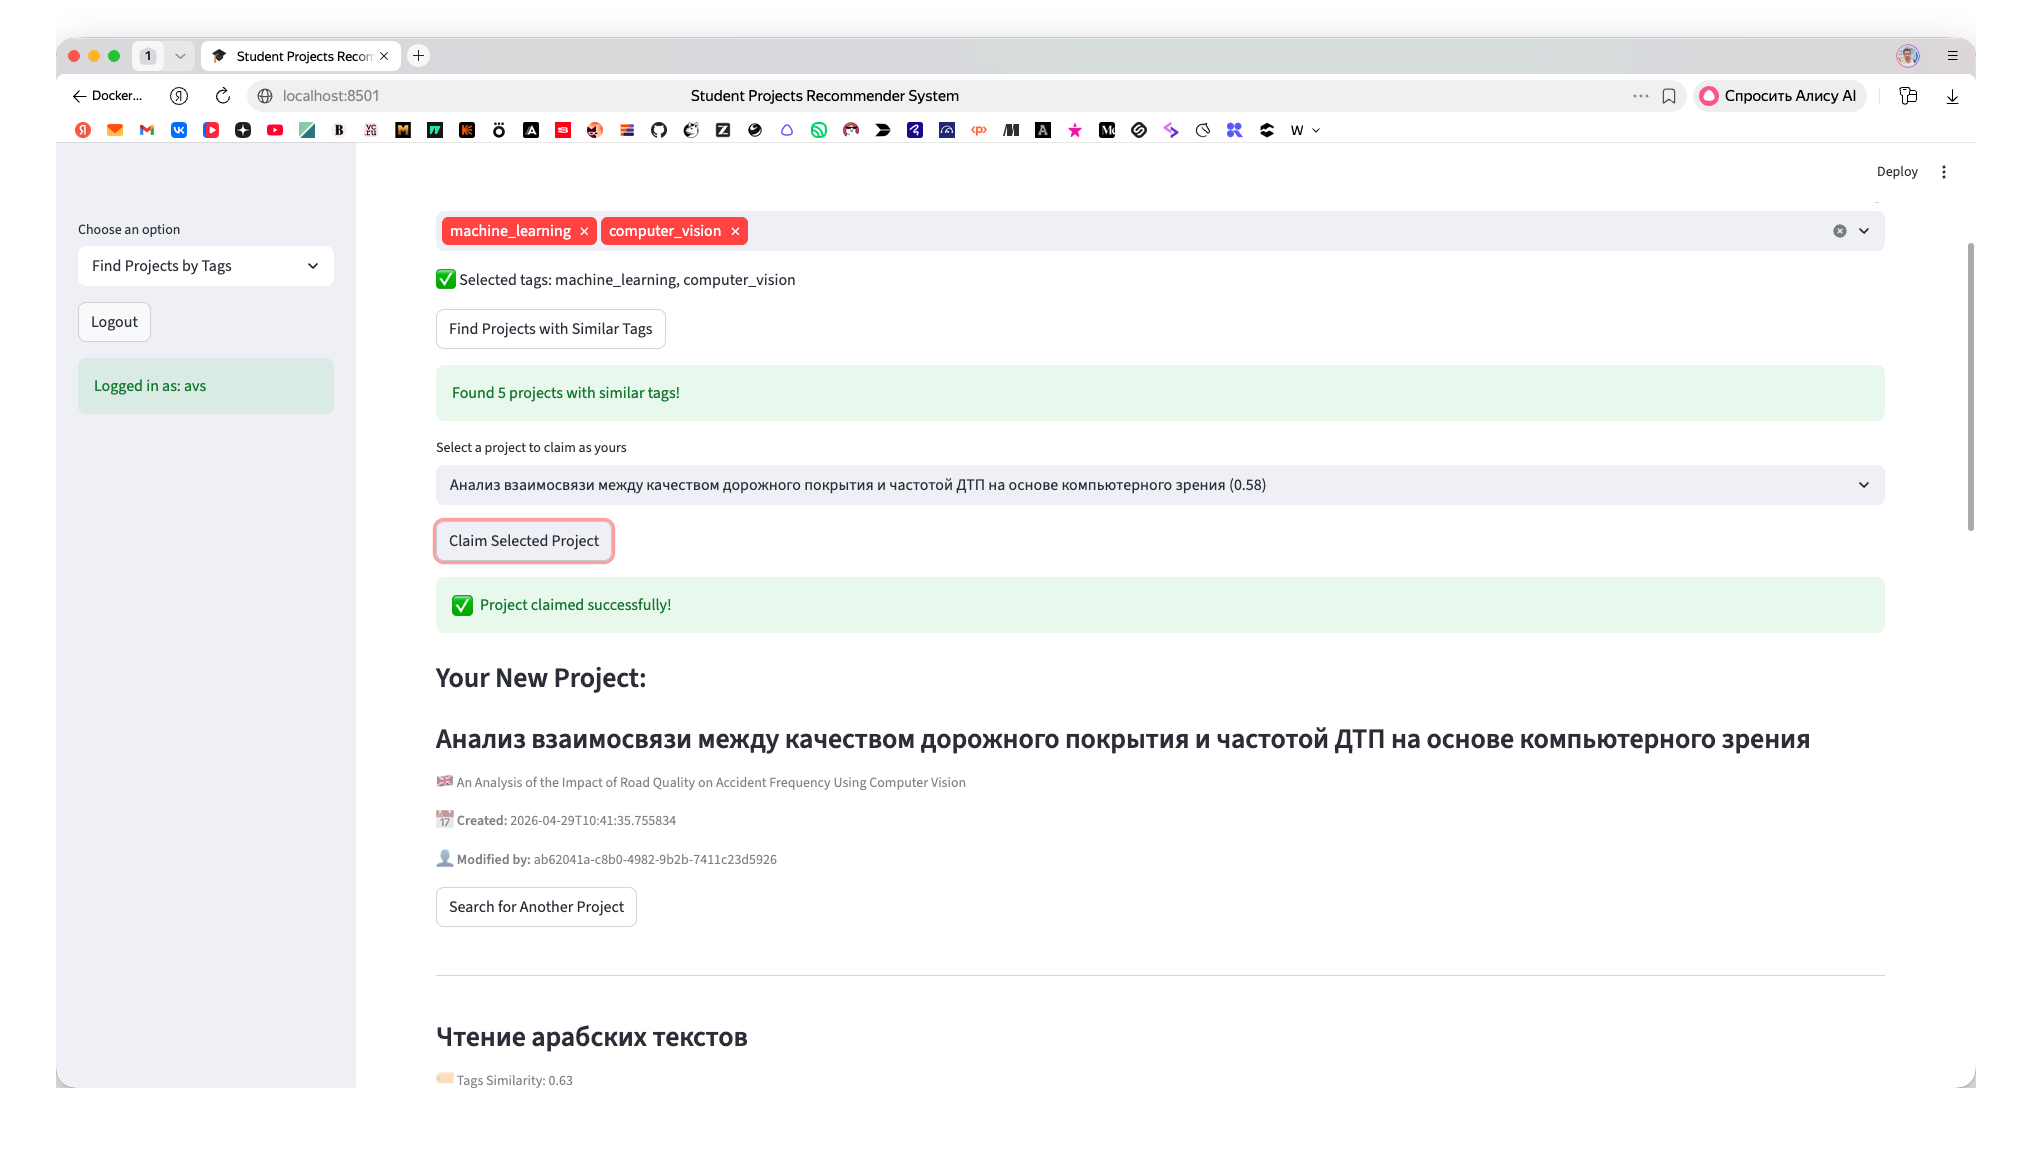
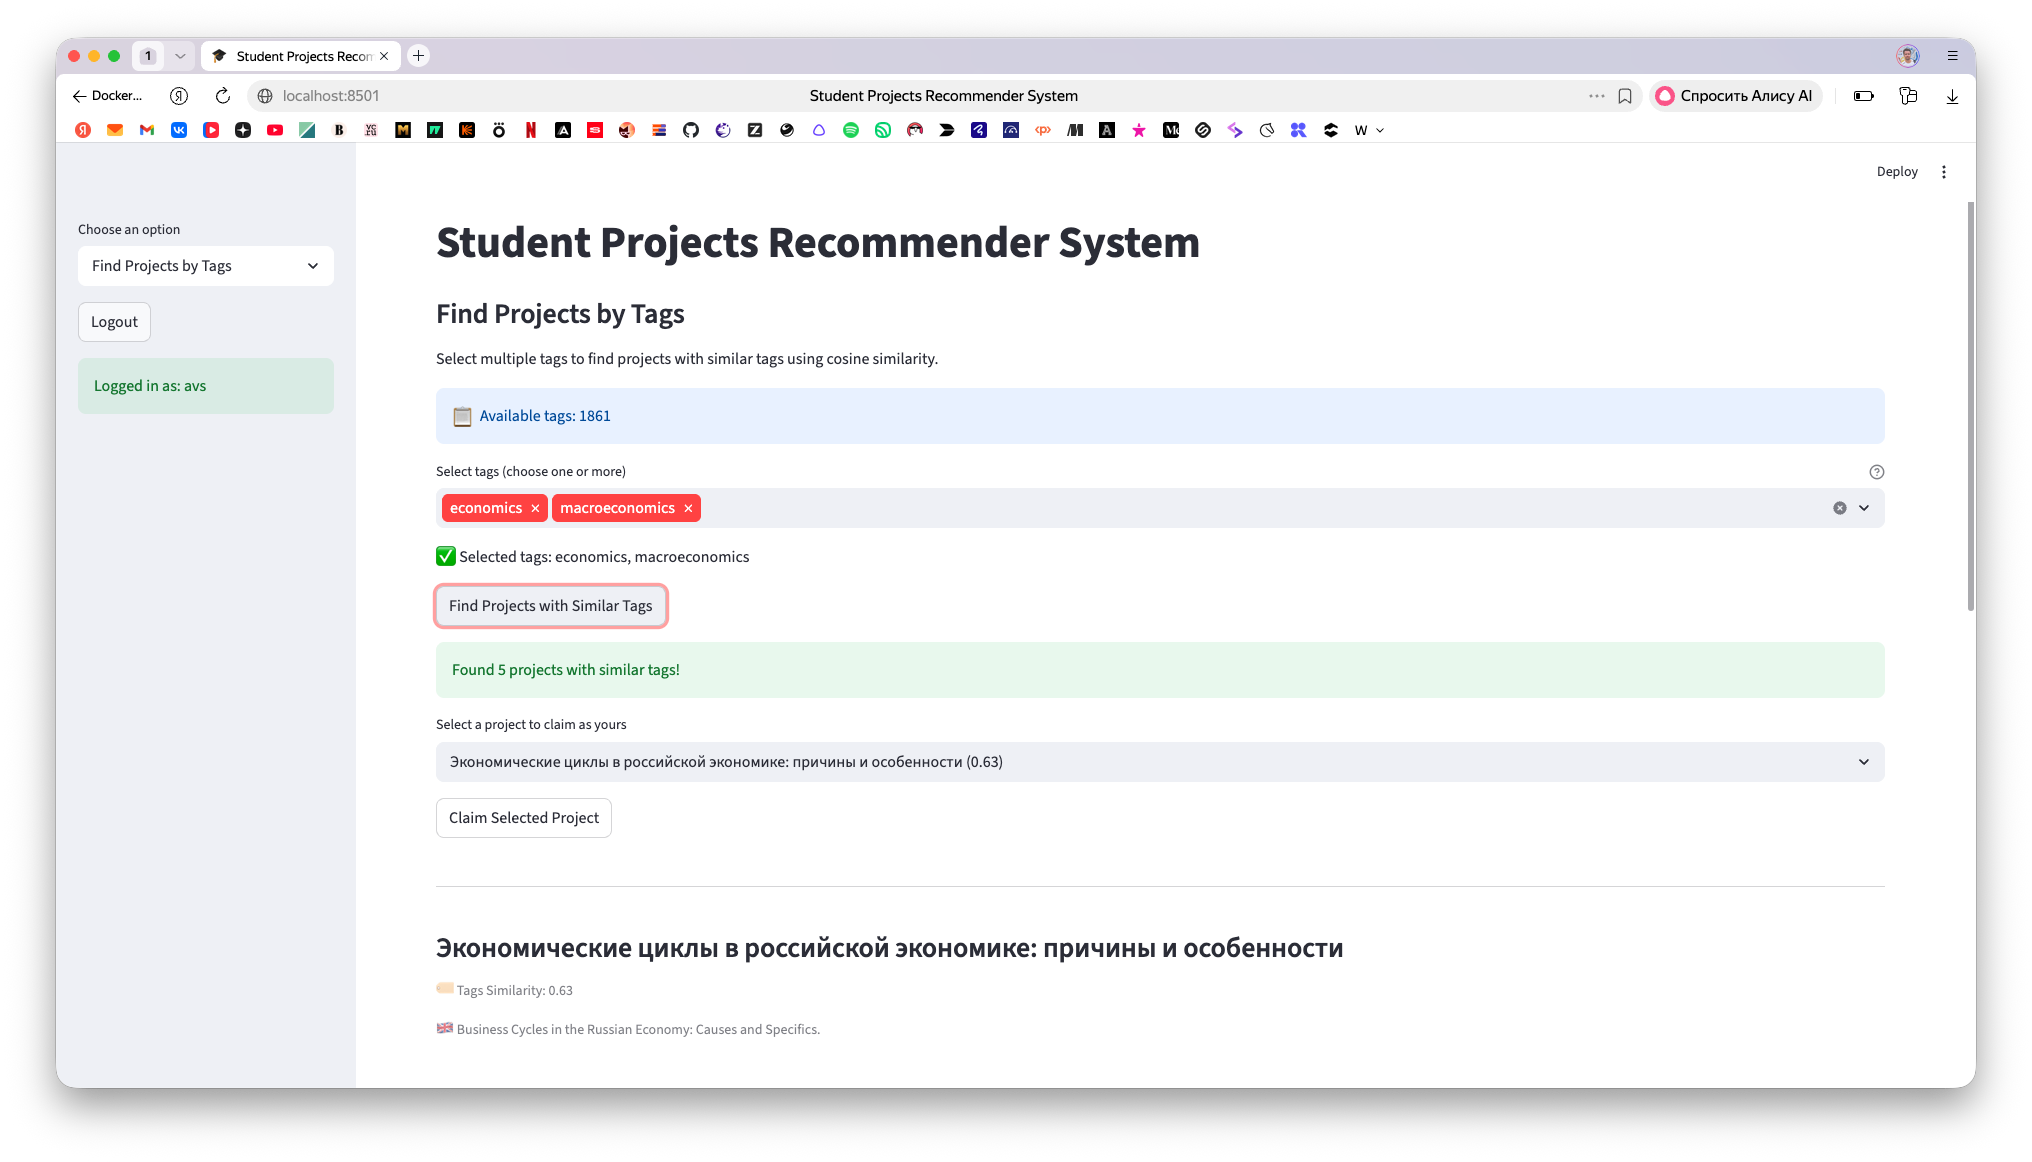
readme

diff --git a/readme.md b/readme.md
@@ -1,6 +1,6 @@
 # Student Projects Recommender System
 
-FastAPI backend with Streamlit frontend and PostgreSQL database, featuring intelligent project recommendations using ML transformers.
+FastAPI backend with Streamlit frontend and PostgreSQL database, featuring intelligent project recommendations using multiple ML algorithms (LightFM, ALS, Transformers) and an avatar-based persona system.
 
 ## Quick Start
 
@@ -16,17 +16,47 @@ docker compose up --build
 
 ## Features
 
-<li>✅ <b>JWT Authentication</b> - Secure user authentication with profile management
-<li>✅ <b>Project Management</b> - Full CRUD operations with embedding generation
-<li>✅ <b>AI-Powered Search</b> - Semantic search using transformer models + Tags based search using cosine similarity
-<li>✅ <b>User Projects</b> - Claim and manage personal projects
-<li>✅ <b>PostgreSQL + pgvector</b> - Optimized vector database for embeddings
-<li>✅ <b>Docker-Optimized</b> - Fast builds and small images
+### User Management
+- **JWT Authentication** - Secure user authentication with token-based access
+- **Profile Management** - Full user profiles with personal information, bio, and contact details
+- **User Types** - Support for student, teacher, and admin user types
+- **Avatar System** - AI-generated persona profiles that help match users with relevant projects
+
+### Project Management
+- **Full CRUD Operations** - Create, read, update, and soft delete projects
+- **Automatic Embedding Generation** - Projects get 384-dimensional embeddings using transformer models
+- **Tags Support** - Each project can have multiple tags from a predefined set (1861 tags)
+- **Project Claiming** - Users can claim projects as their own
+- **Rating System** - 1-5 star ratings for projects
+
+### Search & Recommendations
+- **Semantic Search** - Transformer-based search using `sentence-transformers/paraphrase-multilingual-MiniLM-L12-v2`
+- **Tags-Based Search** - Cosine similarity search on project tag vectors
+- **LightFM Recommendations** - Collaborative filtering using the user's avatar's preferences
+- **ALS Recommendations** - Alternating Least Squares for personalized collaborative filtering
+- **Popular Items** - Highly rated projects for cold-start users
+
+### Avatar System
+- **AI-Generated Personas** - Pre-configured avatar profiles with different interests
+- **Avatar Assignment** - Automatic avatar assignment based on user's tag similarity
+- **Avatar Recommendations** - Tag-based cosine similarity to find matching avatars
+- **Avatar Switching** - Users can change their associated avatar
+
+### Database & Infrastructure
+- **PostgreSQL + pgvector** - Optimized vector database for embeddings and tags
+- **Docker-Optimized** - Multi-container setup with health checks and resource limits
+- **Connection Pooling** - Configurable database connection pooling
 
 ## Screenshots
 
-### View Available Projects
-![View Available Projects](images/ViewAvailableProjects.png)
+### Signup
+![Signup](images/Signup.png)
+
+### Your Avatar
+![Your Avatar](images/YourAvatar.png)
+
+### View My Projects
+![View My Projects](images/ViewMyProjects.png)
 
 ### Find Projects by Query
 ![Find Projects by Query](images/FindProjectsByQuery.png)
@@ -34,81 +64,180 @@ docker compose up --build
 ### Find Projects by Tags
 ![Find Projects by Tags](images/FindProjectsByTags.png)
 
-### View Project Details
-![View Project Details](images/ViewProjectDetails.png)
-
-### View My Projects
-![View My Projects](images/ViewMyProjects.png)
+### Get Recommendations
+![Get Recommendations](images/GetRecommendations.png)
 
 ## Development
 
-**Implemented:**
-- Complete user authentication flow
+### Implemented Features
+- Complete user authentication flow with JWT tokens
+- User profile management with CRUD operations
+- Avatar system with auto-assignment and manual selection
 - Project CRUD operations with automatic embedding and tags generation
-- Semantic project search and recommendations
+- Semantic project search using transformer models
+- Tags-based search using cosine similarity
+- Multiple recommendation algorithms (LightFM, ALS, Popular)
 - User profile and project claiming functionality
+- Project rating system (1-5 stars)
+- Tag management for users and projects
 - Database initialization with project embeddings
+- Soft delete functionality
+
+### ML Models Used
+- **Transformer Model**: `sentence-transformers/paraphrase-multilingual-MiniLM-L12-v2` (384-dim embeddings)
+- **LightFM**: Collaborative filtering with avatar-based preferences
+- **ALS (Implicit)**: Alternating Least Squares for user-item recommendations
+- **Cosine Similarity**: For both embeddings and tag vectors
 
 ## Architecture
 
 ```
 ├── docker-compose.yaml           # Multi-service orchestration
-├── recsAppBack/               # FastAPI backend
+├── recsAppBack/                 # FastAPI backend
 │   ├── app/
-│   │   ├── main.py          # Application entry point
-│   │   ├── config.py         # Configuration settings
-│   │   ├── auth/             # JWT authentication
-│   │   ├── db/               # Database layer with pgvector
-│   │   ├── handlers/          # API endpoints
-│   │   └── models/            # Data models
+│   │   ├── main.py             # Application entry point
+│   │   ├── config.py            # Configuration settings
+│   │   ├── auth/                # JWT authentication
+│   │   ├── db/                  # Database layer with pgvector
+│   │   ├── handlers/            # API endpoints
+│   │   │   ├── projects.py      # Project CRUD and ratings
+│   │   │   ├── users.py         # User management
+│   │   │   ├── avatars.py       # Avatar recommendations
+│   │   │   ├── tags.py          # Tag management
+│   │   │   └── profile.py       # User profile
+│   │   ├── models/              # Pydantic data models
+│   │   └── utils/               # Utility functions
 │   └── requirements.txt
-├── recsAppFront/              # Streamlit frontend
+├── recsAppFront/                # Streamlit frontend
 │   ├── app/
-│   │   ├── streamlit.py      # Main application
-│   │   ├── config.py         # Configuration settings
-│   │   └── handlers/          # ML and auth utilities
+│   │   ├── streamlit.py         # Main application
+│   │   ├── config.py            # Configuration settings
+│   │   └── handlers/            # ML and auth utilities
+│   │       ├── transformers.py  # ML models (LightFM, ALS, Transformers)
+│   │       └── auth_helpers.py  # Authentication helpers
 │   └── requirements.txt
-└── recsAppInit/               # Data initialization service
-    ├── app/
-    │   ├── main.py          # Embedding generation
-    │   ├── config.py         # Configuration settings
-    │   └── models.py         # Data models
-    └── requirements.txt
+├── recsAppInit/                 # Data initialization service
+│   ├── app/
+│   │   ├── main.py              # Embedding generation
+│   │   ├── config.py            # Configuration settings
+│   │   └── models.py            # Data models
+│   └── requirements.txt
+└── data/                        # Resources directory
+    ├── data.xlsx                # Project data
+    ├── item_embeddings.pkl      # Pre-computed embeddings
+    ├── titles_with_tags_dict.pkl # Project-tag mappings
+    ├── tags_set.pkl             # All available tags
+    └── resources/
+        └── lightfm_sber_model.pkl  # Trained LightFM model
 ```
+
+## Database Schema
+
+### Users Table
+- `id` - UUID primary key
+- `nick_name` - Unique username
+- `first_name`, `middle_name`, `last_name` - User's full name
+- `email_address`, `phone_number` - Contact information
+- `self_bio` - User biography
+- `user_type` - student, teacher, or admin
+- `avatar_id` - FK to associated avatar user
+- Soft delete support with `deleted_at`
+
+### Projects Table
+- `id` - UUID primary key
+- `title_rus` - Russian title (required)
+- `title_eng` - English title
+- `annotation` - Short description
+- `description` - Full description
+- `embedding` - 384-dim vector (pgvector)
+- `tags` - 1861-dim vector (pgvector)
+- `chosen_by` - FK to user who claimed the project
+- Soft delete support with `deleted_at`
+
+### Ratings Table
+- `id` - UUID primary key
+- `user_id` - FK to users table
+- `project_id` - FK to projects table
+- `rating` - Integer 1-5
+- Unique constraint on (user_id, project_id)
+
+### Tags, UserTags, ProjectTags Tables
+- Support for many-to-many relationships between users/projects and tags
 
 ## API Endpoints
 
-**Public:**
+### Public
 - `POST /profile/signup` - Create user account
-- `POST /profile/login` - Get JWT token
+- `POST /token` - Get JWT token (OAuth2 password flow)
 - `GET /` - Service health check
 
-**Protected (JWT required):**
+### Protected (JWT required)
+
+#### Projects
 - `GET /projects/` - List all projects (simplified view)
-- `GET /projects/with-embeddings` - List projects with embeddings
+- `GET /projects/with-embeddings` - List projects with embeddings for similarity search
+- `GET /projects/with-tags` - List projects with tags for tag-based search
 - `GET /projects/user/{user_id}` - Get projects by user
 - `GET /projects/{project_id}` - Get specific project details
 - `POST /projects/` - Create new project (auto-generates embeddings)
 - `PUT /projects/{project_id}` - Update project (claim ownership)
 - `DELETE /projects/{project_id}` - Soft delete project
+- `POST /projects/rate` - Rate a project (1-5 stars)
+- `GET /projects/{project_id}/rating` - Get user's rating for a project
+- `GET /projects/{project_id}/ratings` - Get all ratings for a project
+- `GET /projects/ratings/all` - Get all ratings (for ML model training)
+
+#### Users
+- `GET /users/` - List all users with optional type filter
+- `GET /users/avatars` - List all avatar users
+- `GET /users/{user_id}` - Get specific user
+
+#### Avatars
+- `GET /avatars/my` - Get current user's associated avatar
+- `GET /avatars/recommend` - Get avatar recommendations based on user's tags
+- `GET /avatars/` - List all avatars
+- `GET /avatars/{avatar_id}` - Get specific avatar
+- `PUT /avatars/select/{avatar_id}` - Associate user with avatar
+
+#### Tags
+- `GET /tags/` - List all tags
+- `GET /tags/{tag_id}` - Get specific tag
+- `GET /tags/user/{user_id}` - Get user's tags
+- `GET /tags/project/{project_id}` - Get project's tags
+- `POST /tags/user/{user_id}` - Add tags to user
+- `DELETE /tags/user/{user_id}` - Delete user's tags
+
+#### Profile
 - `GET /profile/me` - Get user profile
 
 ## Configuration Details
 
-**Backend Config** (`recsAppBack/app/config.py`):
+### Backend Config (`recsAppBack/app/config.py`)
 - Database settings and connection pooling
 - JWT authentication configuration
 - API and security settings
 - ML/embedding model configuration
 
-**Frontend Config** (`.streamlit/secrets.toml`):
+### Frontend Config (`.streamlit/secrets.toml`)
 - Backend connection settings
 - UI customization options
 - ML model and caching configuration
 - Performance tuning parameters
 
-**Init Service** (`recsAppInit/app/config.py`):
+### Init Service (`recsAppInit/app/config.py`)
 - Database connection settings
 - Data file paths
 - Embedding model configuration
 - Batch processing settings
+
+## Technology Stack
+
+- **Backend**: FastAPI with SQLAlchemy ORM
+- **Frontend**: Streamlit
+- **Database**: PostgreSQL with pgvector extension
+- **ML/ML Models**:
+  - Sentence Transformers for embeddings
+  - LightFM for collaborative filtering
+  - Implicit for ALS
+  - Scikit-learn for similarity calculations
+- **Containerization**: Docker & Docker Compose